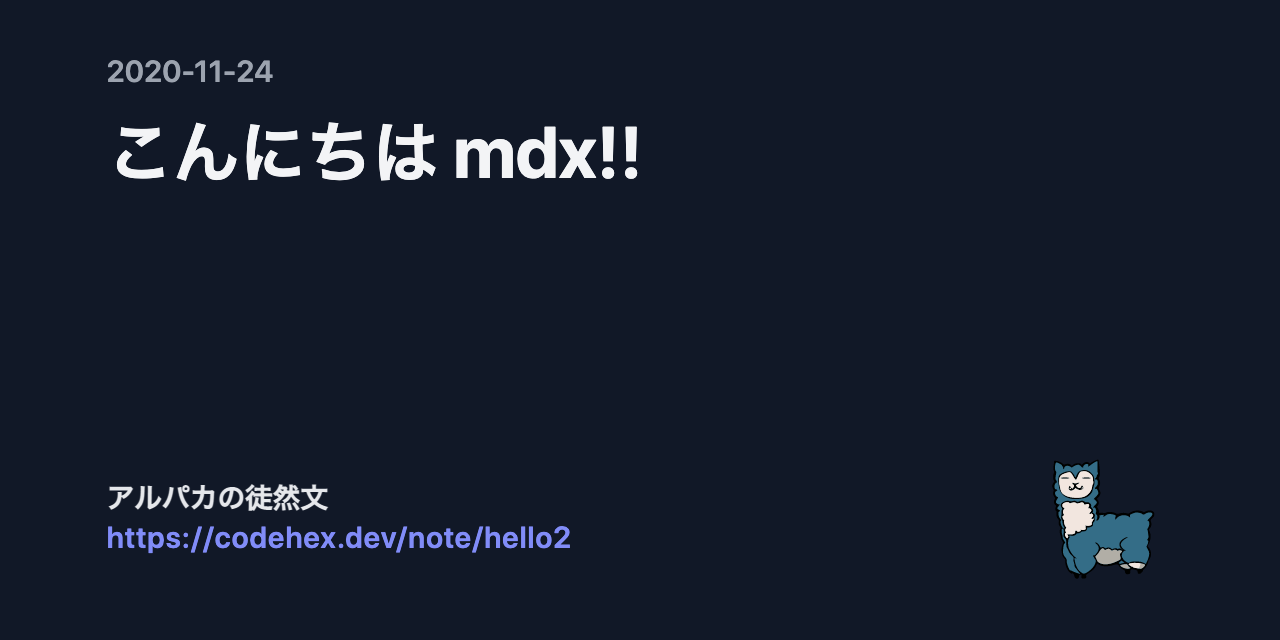
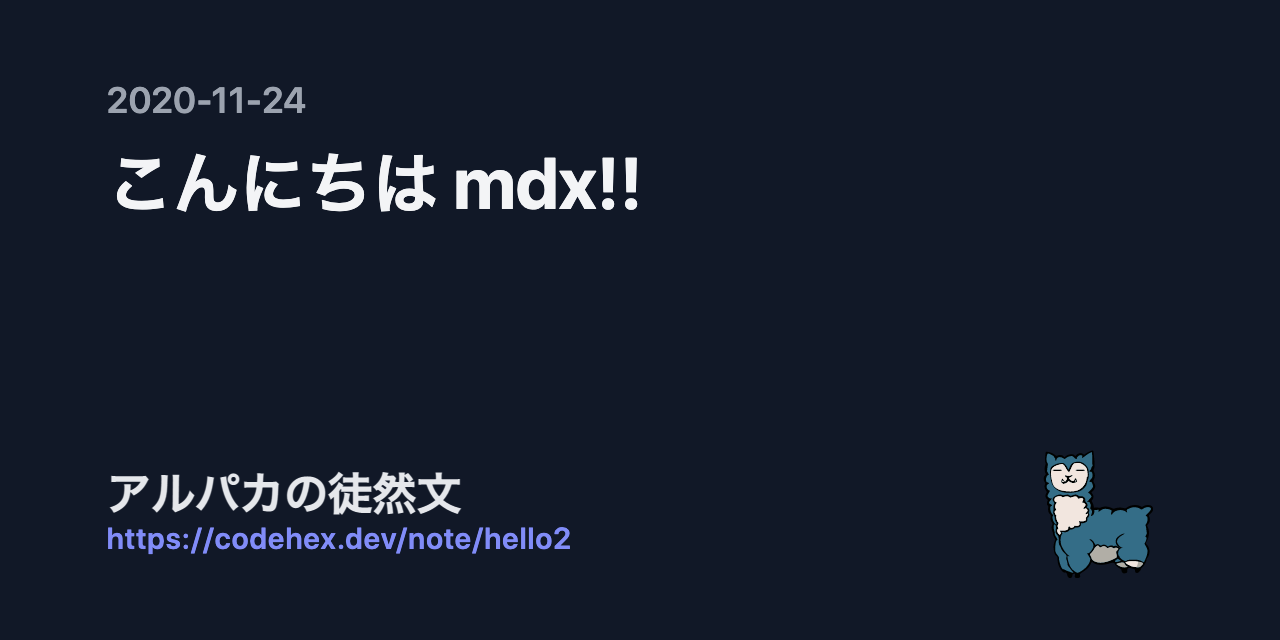
fixed ogp design

Changed region(s): [[0.0625, 0.0938, 0.5, 0.3438], [0.0625, 0.7188, 0.4375, 0.875], [0.8125, 0.6875, 0.9062, 0.9062]]

diff --git a/src/mdx/getOgImage.tsx b/src/mdx/getOgImage.tsx
@@ -37,10 +37,10 @@ const OgpComponent = ({ date, title, path }: OgpComponentProps) => {
         {/* GitHub recommends leaving a 40pt padding around important details of our social card to make sure nothing gets cropped */}
         <div
           className="h-full flex flex-col justify-between text-gray-100 bg-gray-900"
-          style={{ padding: '40pt 80pt' }}
+          style={{ padding: '60pt 80pt 40pt 80pt' }}
         >
           <div className="space-y-2 overflow-hidden multiline-truncate">
-            <p className="text-3xl font-semibold text-gray-400 font-source-sans-pro">
+            <p className="text-4xl font-semibold text-gray-400 font-source-sans-pro">
               <span>{date}</span>
             </p>
             <h1 className="text-7xl font-bold text-gray-100 leading-normal">
@@ -49,14 +49,14 @@ const OgpComponent = ({ date, title, path }: OgpComponentProps) => {
           </div>
           <div className="flex justify-between items-center space-x-6">
             <div className="flex flex-col">
-              <p className="mb-1 text-3xl font-semibold text-gray-200">
+              <p className="mb-1 text-5xl font-semibold text-gray-200">
                 アルパカの徒然文
               </p>
               <p className="text-3xl font-semibold tracking-wide text-indigo-400">
                 <span className="path">https://codehex.dev{path}</span>
               </p>
             </div>
-            <CodeHex width="140px" height="140px" isShake={false} />
+            <CodeHex width="150px" height="150px" isShake={false} />
           </div>
         </div>
       </body>
